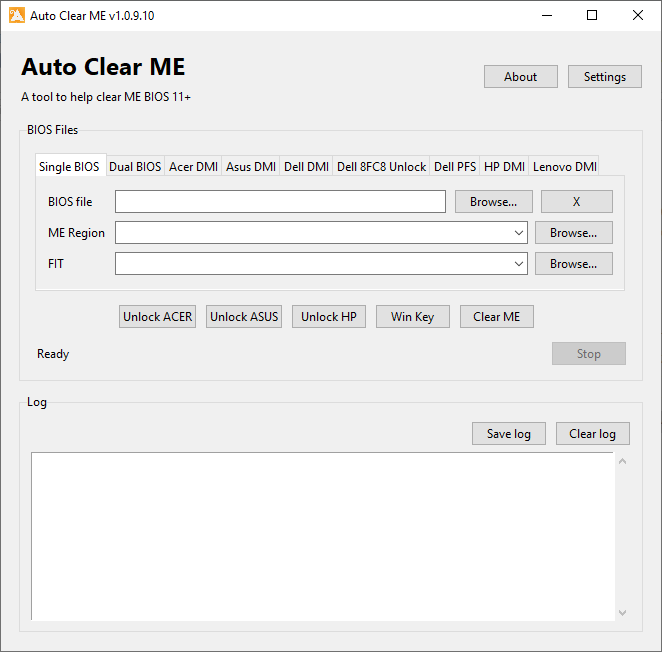
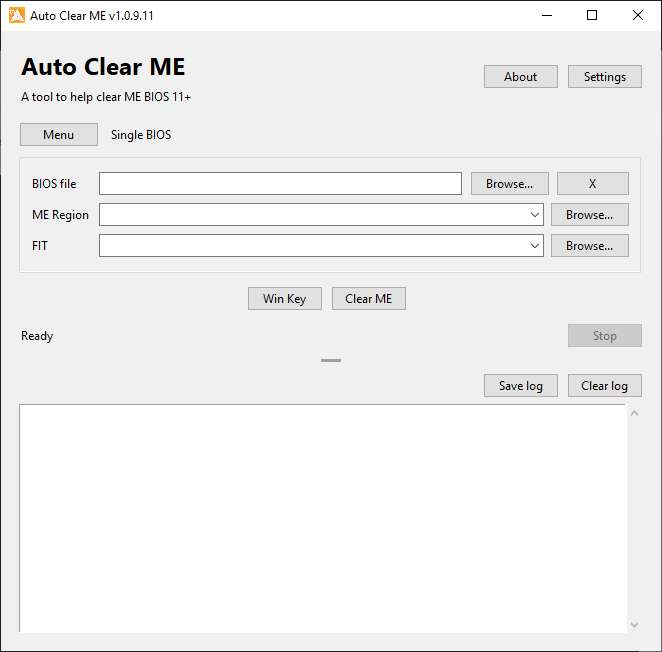
fix: menu list

diff --git a/AutoClearME_GUI.py b/AutoClearME_GUI.py
@@ -502,7 +502,7 @@ class ClearMeGui(DND_ROOT):
             (None, [(0, "single_bios"), (1, "dual_bios"), (2, "merge_bios"), (3, "split_bios")]),
             ("acer_group", [(4, "acer_dmi_tab"), (10, "unlock_acer_tab")]),
             ("asus_group", [(5, "asus_dmi_tab"), (11, "unlock_asus_tab")]),
-            ("dell_group", [(6, "dell_dmi_tab"), (9, "dell_8fc8_unlock_tab"), (13, "dell_pfs_tab")]),
+            ("dell_group", [(13, "dell_pfs_tab"), (6, "dell_dmi_tab"), (9, "dell_8fc8_unlock_tab")]),
             ("hp_group", [(7, "hp_dmi_tab"), (12, "unlock_hp_tab")]),
             ("lenovo_group", [(8, "lenovo_dmi_tab")]),
         ]

diff --git a/README.md b/README.md
@@ -18,6 +18,14 @@ The app uses ME Analyzer to analyze the selected BIOS dump, then suggests a matc
 - Automatically tries the remaining compatible FIT versions if the first one fails
 - Supports both Single BIOS and Dual BIOS workflows
 - Saves the cleaned BIOS next to the original input file with the `_CLEARME` suffix
+- Merges two BIOS files in selected order and trims trailing dump metadata automatically
+- Splits a merged BIOS image by user-entered BIOS 1 and BIOS 2 sizes
+- Finds plaintext Windows product keys and shows their start/end offsets
+- Finds, exports, and imports whole DMI blocks for Acer, ASUS, Dell, HP, and Lenovo
+- Supports vendor BIOS password unlock helpers for Acer, ASUS, HP, and Dell 8FC8
+- Dell 8FC8 unlock can also patch supported dumps to allow Service Tag re-entry
+- Extracts Dell PFS/PKG update images
+- Uses a compact grouped function menu and a resizable control/log layout
 - Opens File Explorer after a successful clear
 - Supports English and Vietnamese UI
 - The release ZIP includes portable Python and required ME Analyzer dependencies
@@ -132,6 +140,14 @@ App dùng ME Analyzer để phân tích BIOS dump đã chọn, đề xuất ME R
 - Tự động thử các bản FIT phù hợp còn lại nếu bản đầu tiên thất bại
 - Hỗ trợ Single BIOS và Dual BIOS
 - Lưu file BIOS đã clear ngay cạnh file input gốc với hậu tố `_CLEARME`
+- Ghép 2 file BIOS theo đúng thứ tự chọn và tự trim metadata dư ở cuối dump
+- Tách file BIOS đã ghép theo size BIOS 1 và BIOS 2 do người dùng nhập
+- Tìm Windows product key dạng plaintext và hiển thị offset bắt đầu/kết thúc
+- Tìm, xuất và nhập nguyên khối DMI cho Acer, ASUS, Dell, HP và Lenovo
+- Hỗ trợ mở khóa BIOS cho Acer, ASUS, HP và Dell 8FC8
+- Dell 8FC8 có thể patch một số dump để nhập lại Service Tag
+- Trích xuất Dell PFS/PKG update image
+- Giao diện dùng menu chức năng gom theo hãng và có thể kéo chỉnh chiều cao control/log
 - Mở File Explorer sau khi clear thành công
 - Hỗ trợ giao diện tiếng Anh và tiếng Việt
 - File ZIP release đã bao gồm Python portable và thư viện ME Analyzer cần thiết
